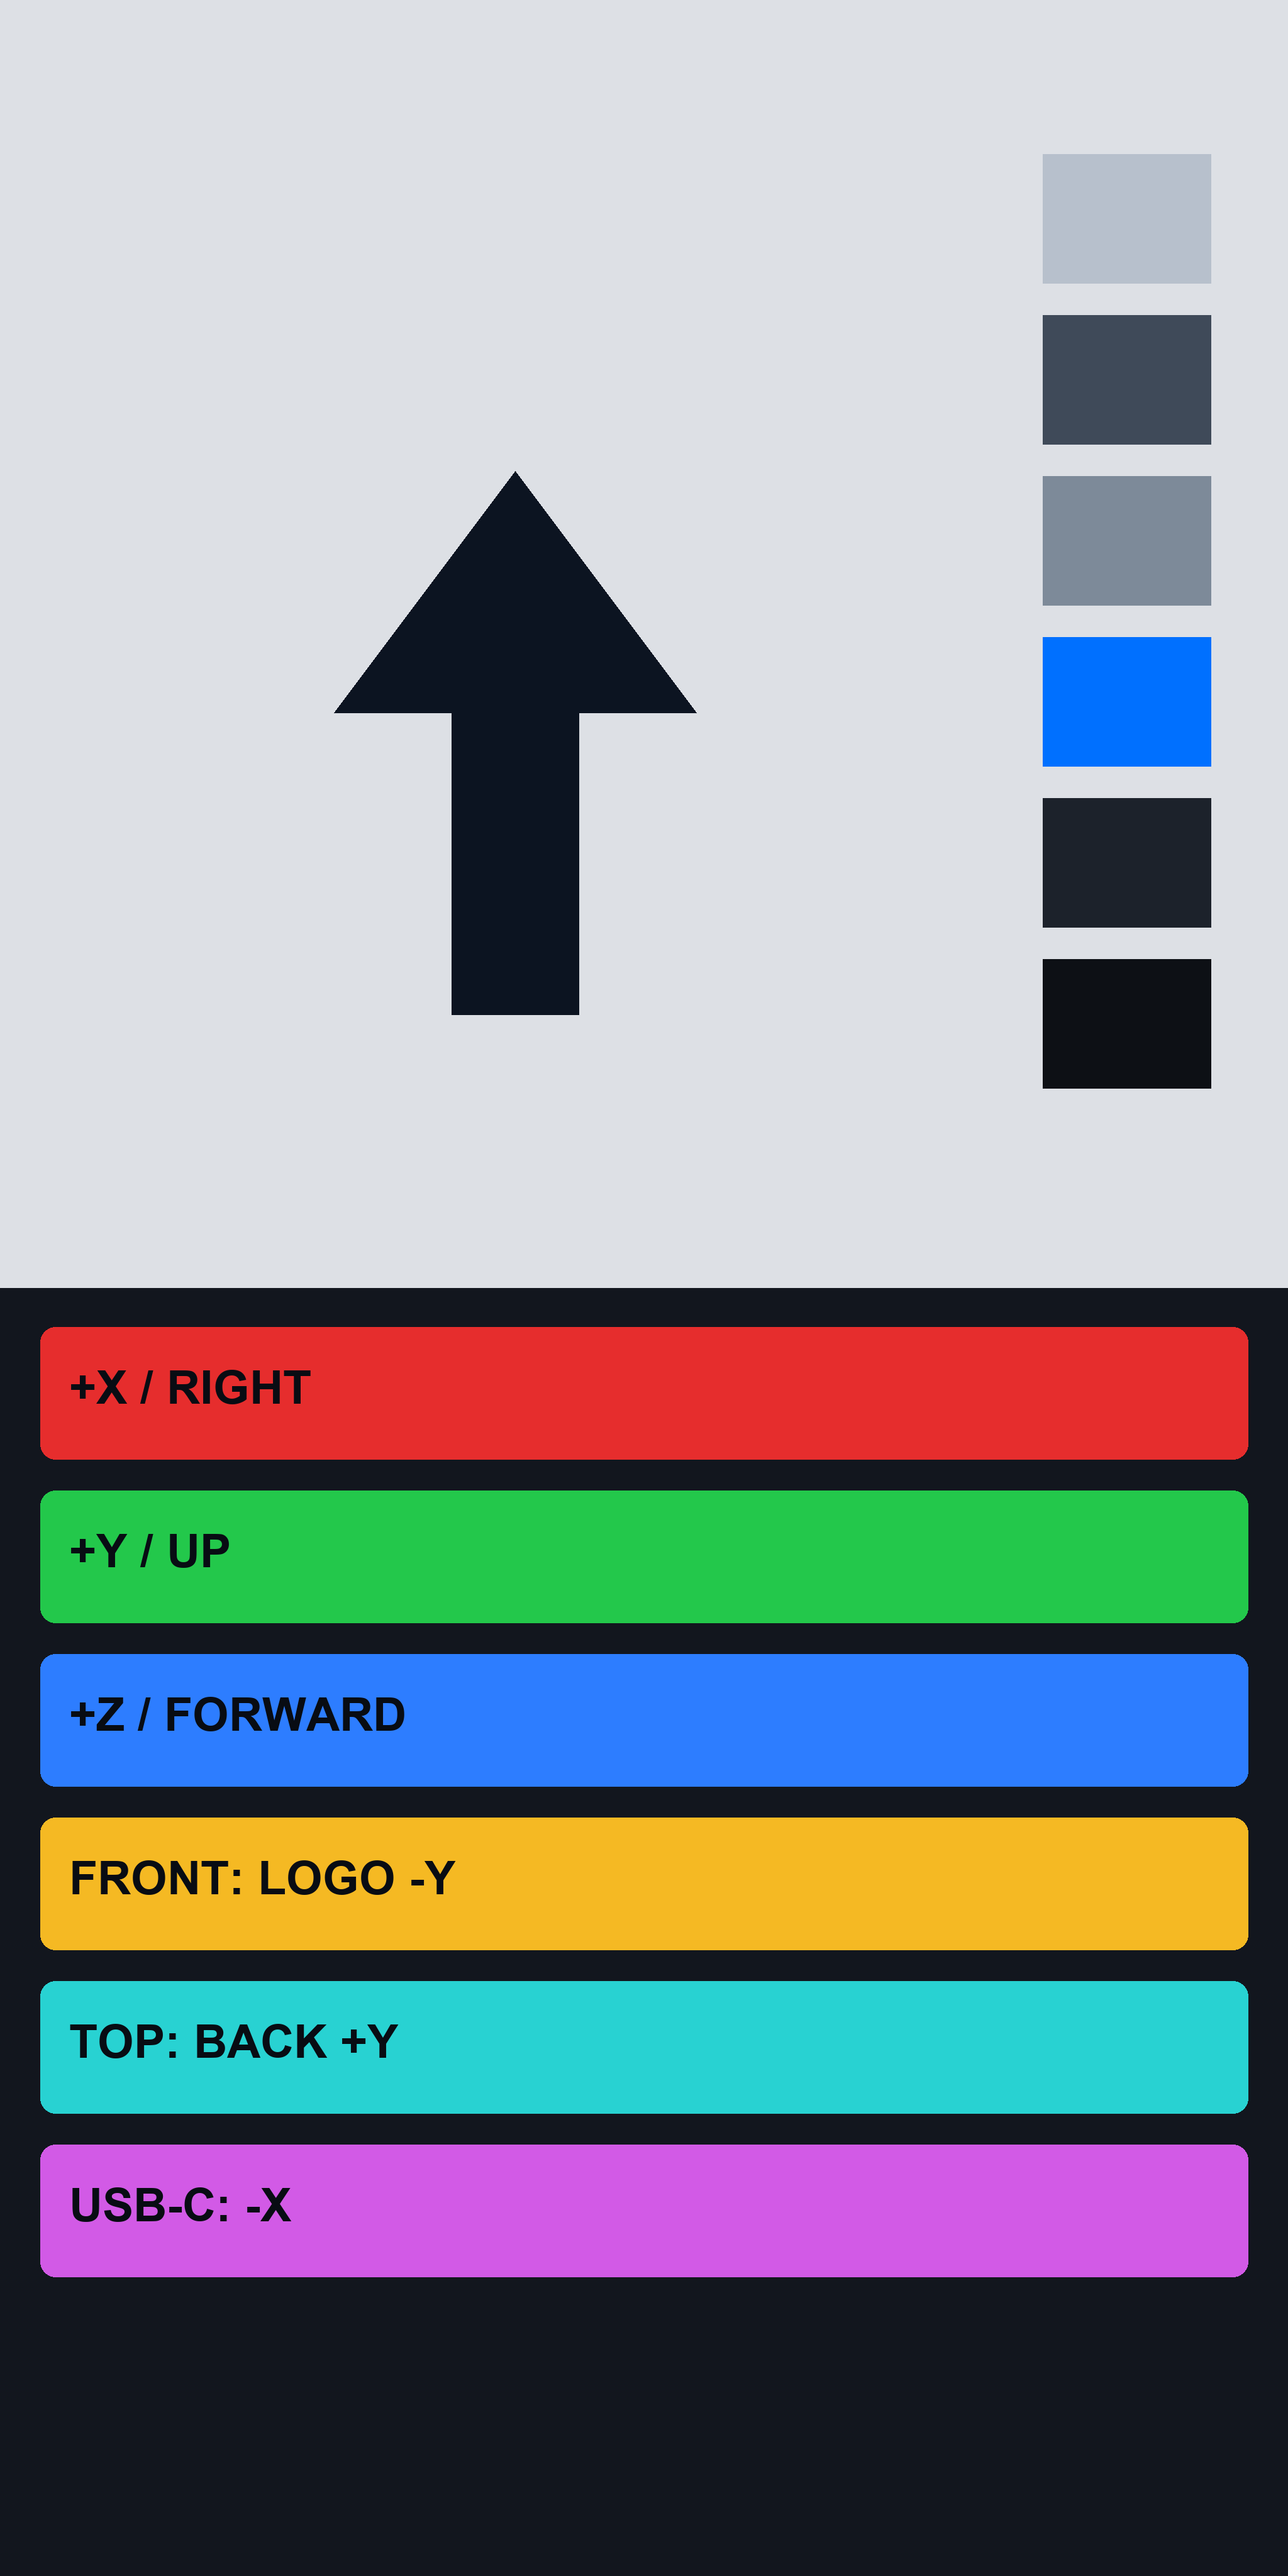
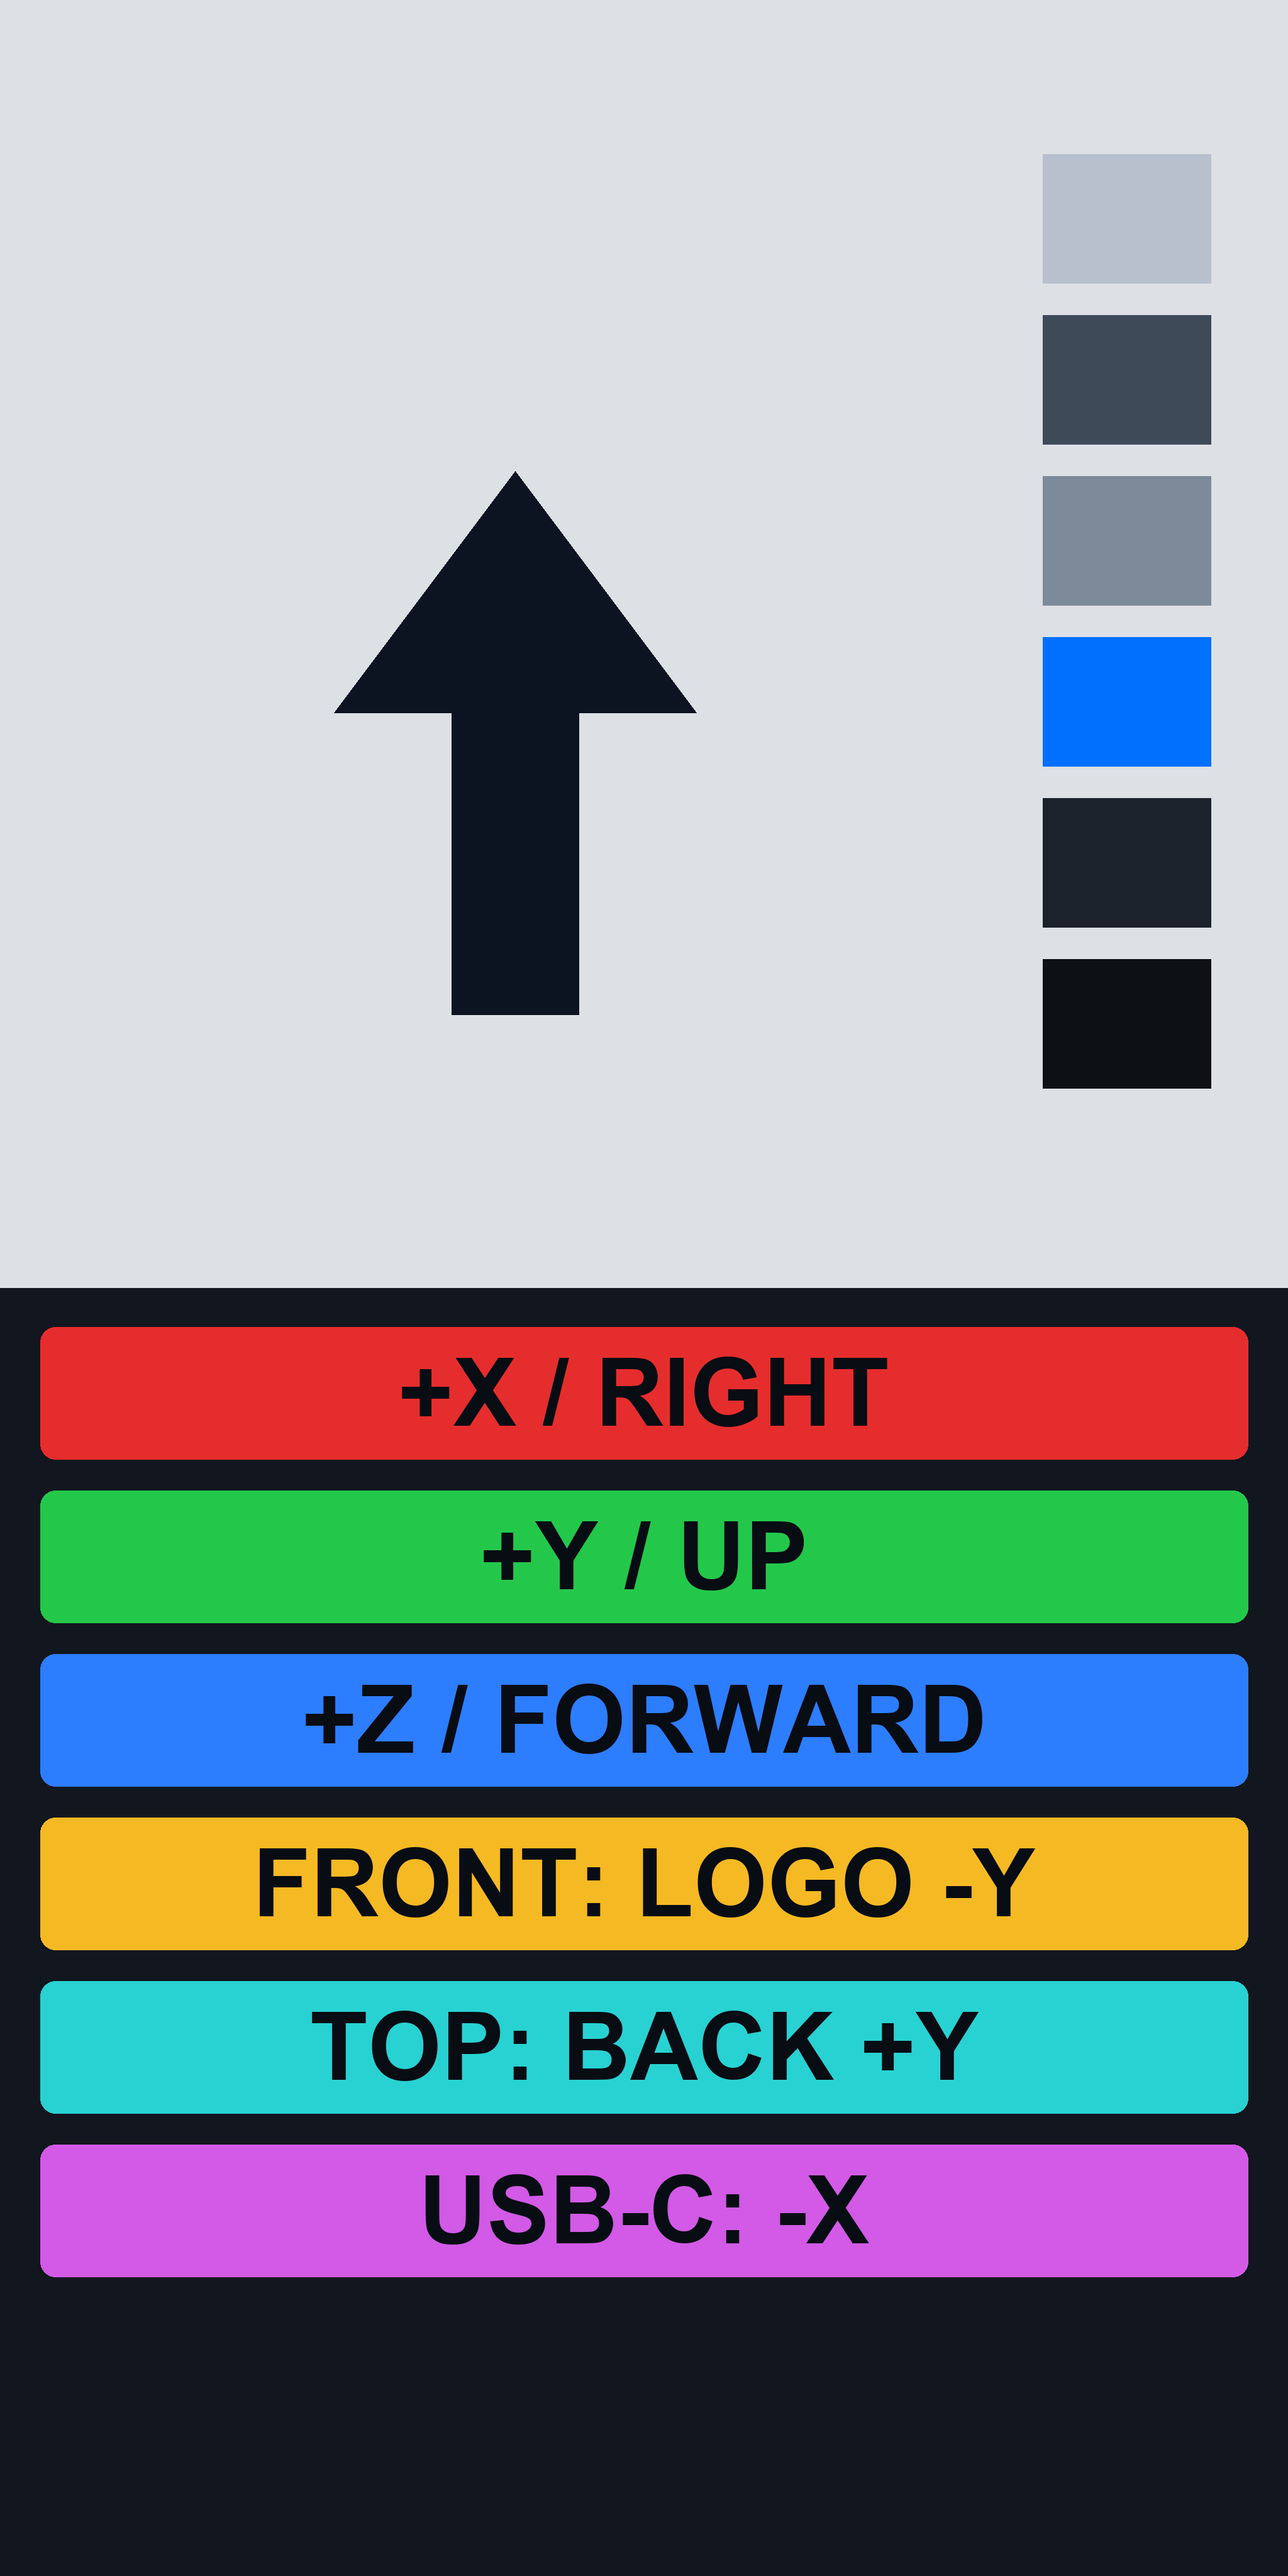
Enlarge diagnostic axis lettering for headset inspection

diff --git a/scripts/prepare_axis_assets.py b/scripts/prepare_axis_assets.py
@@ -37,12 +37,12 @@ production=export(PROD,vs,ns,uv,faces,(SOURCE/'pico_rev3_identification_atlas.pn
 # OpenVR +Z is backward; the requested +Z / FORWARD text is only a local
 # diagnostic axis name, explicitly documented, never a tracking convention.
 atlas=Image.new('RGB',(2048,4096),(18,22,30));atlas.paste(Image.open(SOURCE/'pico_rev3_identification_atlas.png'),(0,0))
-draw=ImageDraw.Draw(atlas);font=ImageFont.truetype('C:/Windows/Fonts/arialbd.ttf',74)
+draw=ImageDraw.Draw(atlas);font=ImageFont.truetype('C:/Windows/Fonts/arialbd.ttf',150)
 labels=[('+X / RIGHT',(230,45,45)),('+Y / UP',(35,200,75)),('+Z / FORWARD',(45,125,255)),('FRONT: LOGO -Y',(245,185,35)),('TOP: BACK +Y',(40,210,210)),('USB-C: -X',(210,90,230))]
 regions=[]
 for i,(label,color) in enumerate(labels):
  y=2110+i*260;draw.rounded_rectangle((64,y,1984,y+210),radius=24,fill=color)
- draw.text((110,y+55),label,font=font,fill=(8,12,19))
+ draw.text((1024,y+105),label,font=font,fill=(8,12,19),anchor='mm')
  regions.append([(64/2048,1-(y+210)/4096),(1984/2048,1-(y+210)/4096),(1984/2048,1-y/4096),(64/2048,1-y/4096)])
 vertices=list(vs);normals=list(ns);texture=[(u,.5+.5*v) for u,v in uv];triangles=list(faces)
 def sub(a,b):return [a[i]-b[i] for i in range(3)]
